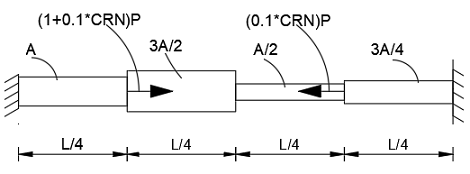
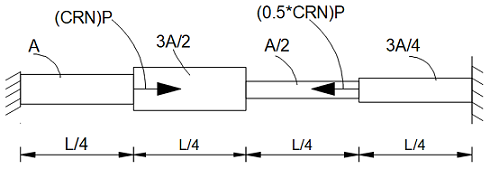
structure 1 assignment added

diff --git a/src/students/ct/Ct4.js b/src/students/ct/Ct4.js
@@ -12,7 +12,7 @@ const Ct4 = () => {
         <>
             <label >
                 <div className='roll'>
-                    <div>Roll Number</div>
+                    <div>Class Roll Number (CRN)</div>
                     <div><input type="number" value={roll} onChange={handleChange} min="0"
                         step="1" className='input-number' /></div>
 
@@ -21,8 +21,10 @@ const Ct4 = () => {
             </label>
             <h4 style={{ marginBottom: '0.2rem' }}>1. Derive stiffness matrix for</h4>
             <ul style={{ marginTop: '0px' }}>
+                <li>Spring element.</li>
                 <li>Bar element.</li>
                 <li>Beam element.</li>
+                <li>Truss element.</li>
             </ul>
             <hr />
 
@@ -30,26 +32,50 @@ const Ct4 = () => {
             <div style={{ marginLeft: '1rem' }}>
                 <img src='/images/ct/assignment4/1.PNG' alt="Frame" style={{ maxWidth: '100%' }} />
             </div>
+            <h4 className='solution divs-container'>
+                ➤ U<sub>2</sub> = {(2.18182 * (300 + roll) / 1000).toFixed(3)} mm  <span style={{ marginLeft: '3em' }}></span>  U<sub>3</sub> = {(1.36364 * (300 + roll) / 1000).toFixed(3)} mm  <br />
+                ➤ R<sub>1</sub> = -{(0.72727 * (300 + roll)).toFixed(2)} kN  <span style={{ marginLeft: '3em' }}></span>  R<sub>4</sub> = -{(0.27273 * (300 + roll)).toFixed(2)} kN <br />
+            </h4>
             <hr />
             <h4 style={{ marginBottom: '0.2rem' }}>3. For the given stepped bar, obtain the nodal displacements and support reactions.</h4>
             <div style={{ marginLeft: '1rem' }}>
                 <img src='/images/ct/assignment4/2.PNG' alt="Frame" style={{ maxWidth: '100%' }} />
             </div>
+            <h4 className='solution divs-container'>
+                ➤ R<sub>1</sub> = {(-0.8 * roll + 0.2666667 * 0.5 * roll).toFixed(3)} <br />
+                ➤ R<sub>2</sub> = {(-0.2 * roll + 0.7333333 * 0.5 * roll).toFixed(3)}
+            </h4>
             <hr />
             <h4 style={{ marginBottom: '0.2rem' }}>4. A propped cantilever beam is loaded as shown. Discretize the beam into two elements and find the deflection at B and rotations at A & B. Also check the result using single element model.</h4>
             <div style={{ marginLeft: '1rem' }}>
                 <img src='/images/ct/assignment4/3.PNG' alt="Frame" style={{ maxWidth: '100%' }} />
             </div>
+            <h4 className='solution divs-container'>
+                ➤ R<sub>Ay</sub> = {(3 * (12 + roll) + 0.46387 * (30 + roll)).toFixed(3)} <br />
+                ➤ R<sub>Cy</sub> = {(5 * (12 + roll) + 0.53613 * (30 + roll)).toFixed(3)}<br />
+                ➤ M<sub>C</sub> = {(-8 * (12 + roll) - 1.28906 * (30 + roll)).toFixed(3)}
+            </h4>
             <hr />
             <h4 style={{ marginBottom: '0.2rem' }}>5. Determine the support reactions and also draw the bending moment diagram. Take E = 2x10⁵ MPa and I = 5x10⁶ mm⁴.</h4>
             <div style={{ marginLeft: '1rem' }}>
                 <img src='/images/ct/assignment4/4.PNG' alt="Frame" style={{ maxWidth: '100%' }} />
             </div>
+            <h4 className='solution divs-container'>
+                ➤ R<sub>Ay</sub> = {(0.7555043 * (30 + roll) - 4.090909 - 0.21477 * (20 + roll)).toFixed(3)} <br />
+                ➤ M<sub>A</sub> = {(1.3636364 * (30 + roll) - 10.909091 - 0.57273 * (20 + roll)).toFixed(3)} <br />
+                ➤ R<sub>By</sub> = {(0.2977628 * (30 + roll) + 1.0606061 + 1.405682 * (20 + roll)).toFixed(3)}<br />
+                ➤ R<sub>Cy</sub> = {(-0.053267 * (30 + roll) + 3.030303 + 1.809091 * (20 + roll)).toFixed(3)}
+            </h4>
             <hr />
             <h4 style={{ marginBottom: '0.2rem' }}>6. Determine the nodal displacements, reaction forces & member forces of given truss. For each member, A = 2x10⁻³ m² and E = 2x10⁵ MPa</h4>
             <div style={{ marginLeft: '1rem' }}>
                 <img src='/images/ct/assignment4/5.PNG' alt="Frame" style={{ maxWidth: '100%' }} />
             </div>
+            <h4 className='solution divs-container'>
+                ➤ R<sub>Ax</sub> = {(-1 * (100 + roll) + 1.333333 * (50 + roll)).toFixed(3)} <br />
+                ➤ R<sub>Cx</sub> = {(- 1.333333 * (50 + roll)).toFixed(3)} <br />
+                ➤ R<sub>Cy</sub> = {((50 + roll)).toFixed(3)}
+            </h4>
             <hr />
 
         </>

diff --git a/src/students/structure1/St11.js b/src/students/structure1/St11.js
@@ -1,0 +1,68 @@
+import React, { useState, createContext } from 'react'
+import '../students.css'
+export const RollNumber = createContext()
+const St11 = () => {
+    const [roll, setRoll] = useState(1);
+    const handleChange = (event) => {
+        const value = parseFloat(event.target.value)
+        setRoll(value);
+    };
+    return (
+        <>
+            <label >
+                <div className='roll'>
+                    <div>Roll Number</div>
+                    <div><input type="number" value={roll} onChange={handleChange} min="0"
+                        step="1" className='input-number' /></div>
+                </div>
+            </label>
+
+            <h4 style={{ marginBottom: '0.2rem' }}>1.	Calculate slope at A and deflection at C using virtual work method.</h4>
+            <div style={{ marginLeft: '1rem' }}>
+                <img src='/images/st1/assignment1/1.PNG' alt="Beam with overhang" style={{ maxWidth: '100%' }} />
+            </div>
+            <hr />
+            <h4 style={{ marginBottom: '0.2rem' }}>2.	Calculate horizontal and vertical deflection at free end using virtual work method. </h4>
+            <div style={{ marginLeft: '1rem' }}>
+                <img src='/images/st1/assignment1/2.PNG' alt="Cantilever Frame" style={{ maxWidth: '100%' }} />
+            </div>
+            <hr />
+            <h4 style={{ marginBottom: '0.2rem' }}>3.	Calculate vertical deflection at C using virtual work method.</h4>
+            <div style={{ marginLeft: '1rem' }}>
+                <img src='/images/st1/assignment1/3.PNG' alt="Cantilever Frame" style={{ maxWidth: '100%' }} />
+            </div>
+            <hr />
+            <h4 style={{ marginBottom: '0.2rem' }}>4.	Calculate horizontal deflection at D using virtual work method. Take EI = constant.</h4>
+            <div style={{ marginLeft: '1rem' }}>
+                <img src='/images/st1/assignment1/4.PNG' alt="Frame" style={{ maxWidth: '100%' }} />
+            </div>
+            <hr />
+            <h4 style={{ marginBottom: '0.2rem' }}>5.	State first and second moment area theorems.</h4>
+
+            <hr />
+            <h4 style={{ marginBottom: '0.2rem' }}>6.	Using moment area method, find the deflection at mid-span. Take E = 200 GPa and I=10⁻⁴ m⁴.</h4>
+            <div style={{ marginLeft: '1rem' }}>
+                <img src='/images/st1/assignment1/6.PNG' alt="Simply supported beam" style={{ maxWidth: '100%' }} />
+            </div>
+            <hr />
+            <h4 style={{ marginBottom: '0.2rem' }}>7.	Find the deflection at C using moment area method.</h4>
+            <div style={{ marginLeft: '1rem' }}>
+                <img src='/images/st1/assignment1/7.PNG' alt="Simply supported beam" style={{ maxWidth: '100%' }} />
+            </div>
+            <hr />
+            <h4 style={{ marginBottom: '0.2rem' }}>8.	Using moment area method, determine slope at A, B and deflections at C & D.</h4>
+            <div style={{ marginLeft: '1rem' }}>
+                <img src='/images/st1/assignment1/1.PNG' alt="Beam with overhang" style={{ maxWidth: '100%' }} />
+            </div>
+            <hr />
+            <h4 style={{ marginBottom: '0.2rem' }}>9.	Using moment area method, determine the deflection at free end.</h4>
+            <div style={{ marginLeft: '1rem' }}>
+                <img src='/images/st1/assignment1/9.PNG' alt="Beam with overhang" style={{ maxWidth: '100%' }} />
+            </div>
+            <hr />
+
+        </>
+    )
+}
+
+export default St11

diff --git a/src/students/structure1/St1.js b/src/students/structure1/St1.js
@@ -1,0 +1,25 @@
+import React from 'react'
+import { Link } from 'react-router-dom'
+import { Helmet } from 'react-helmet'
+function St1() {
+    return (
+        <main className='page-container' style={{ lineHeight: '1.8rem' }}>
+            <Helmet>
+                <title>Structure 1</title>
+                <meta name="description" content="Students assignment check" />
+            </Helmet>
+            <h2>Check your assignments here.</h2>
+            <p><Link to="st1-1" className='ext-link ext-link2'>Assignment 1</Link>
+            </p>
+            {/* <p><Link to="st1-2" className='ext-link ext-link2'>Assignment 2</Link>
+            </p>
+            <p><Link to="st1-3" className='ext-link ext-link2'>Assignment 3</Link>
+            </p>
+            <p><Link to="st1-4" className='ext-link ext-link2'>Assignment 4</Link>
+            </p> */}
+
+        </main>
+    )
+}
+
+export default St1

diff --git a/src/students/AssignmentsNav.js b/src/students/AssignmentsNav.js
@@ -9,6 +9,7 @@ import Ct2 from './ct/Ct2';
 import Ct3 from './ct/Ct3';
 import Ct4 from './ct/Ct4';
 import Ct5 from './ct/Ct5';
+import St11 from './structure1/St11';
 
 function StudentsNav() {
     const { module } = useParams()
@@ -40,6 +41,9 @@ function StudentsNav() {
             break;
         case "ct5":
             moduleCalc = <Ct5 />
+            break;
+        case "st1-1":
+            moduleCalc = <St11 />
             break;
         default:
             moduleCalc = <Assignment1 />

diff --git a/src/students/SubjectsNav.js b/src/students/SubjectsNav.js
@@ -2,6 +2,7 @@ import React from 'react'
 import { useParams } from 'react-router-dom'
 import Tos2 from './tos2/Tos2';
 import Ct from './ct/Ct';
+import St1 from './structure1/St1';
 function SubjectsNav() {
     const { module } = useParams()
     var moduleCalc;
@@ -12,6 +13,10 @@ function SubjectsNav() {
 
         case "ct":
             moduleCalc = <Ct />
+            break;
+
+        case "st1":
+            moduleCalc = <St1 />
             break;
 
         default:

diff --git a/src/students/Students.js b/src/students/Students.js
@@ -13,6 +13,8 @@ function Students() {
             </p>
             <p><Link to="ct" className='ext-link ext-link2'>Computational Techniques (Structure)</Link>
             </p>
+            <p><Link to="st1" className='ext-link ext-link2'>Structure 1 (Architecture)</Link>
+            </p>
 
             {/* <p>Design a <Link to="steel-i-column">Steel I Column</Link></p> */}
 
